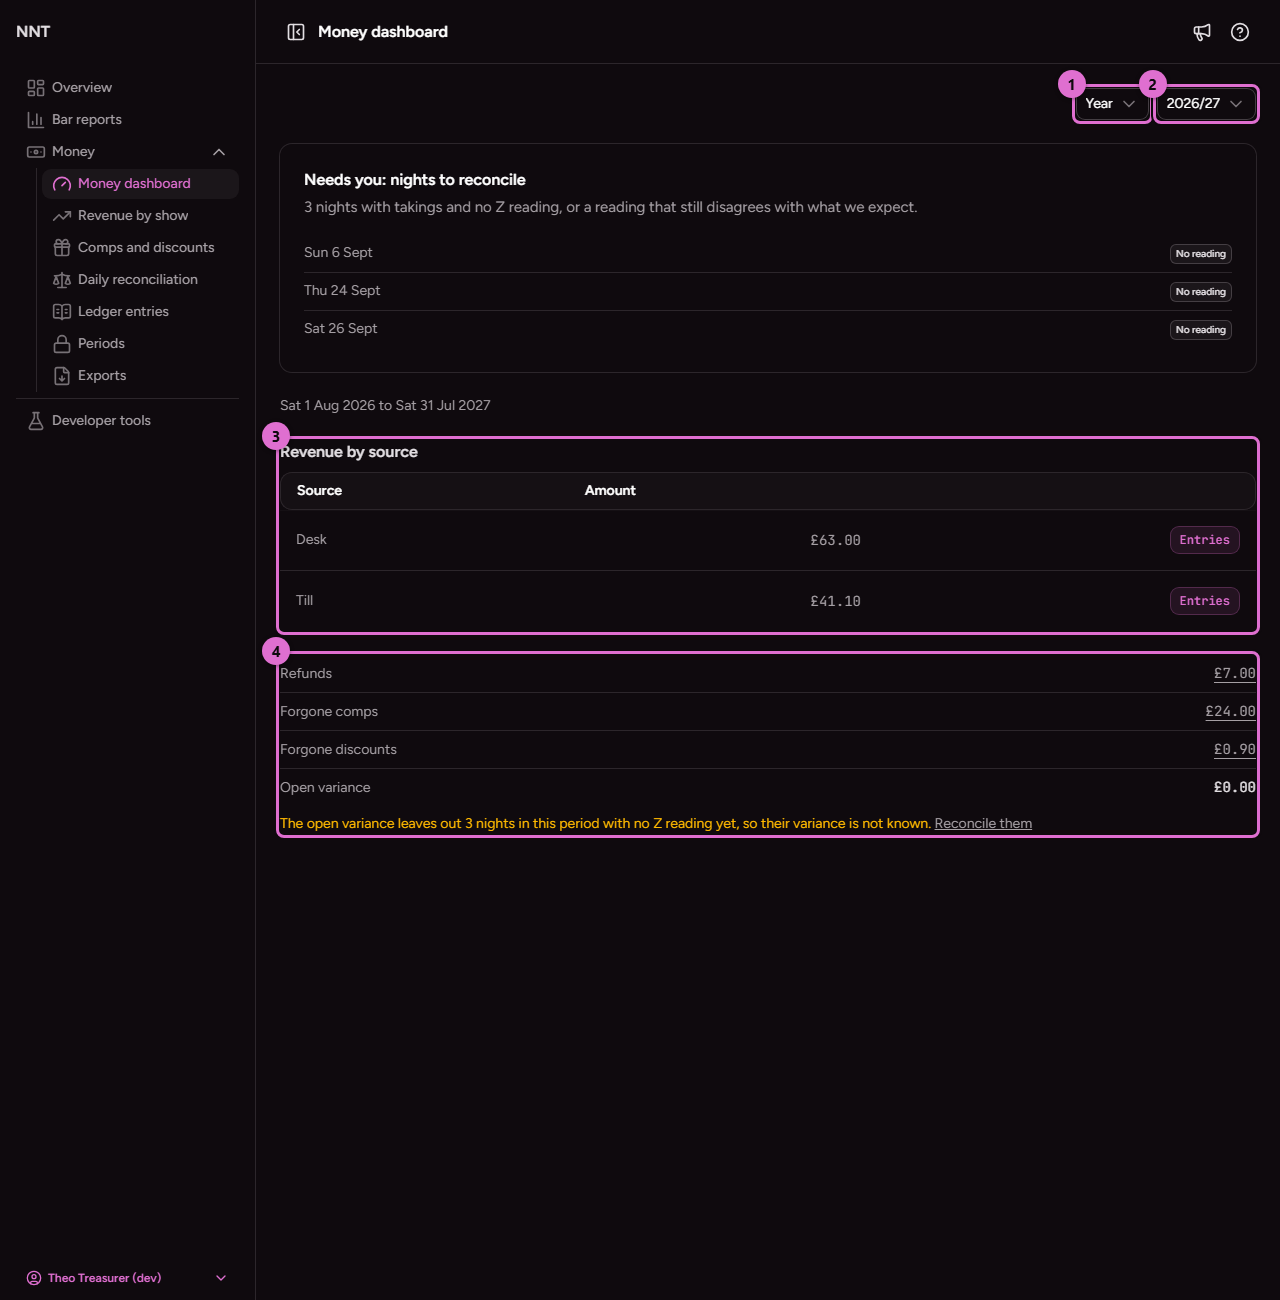
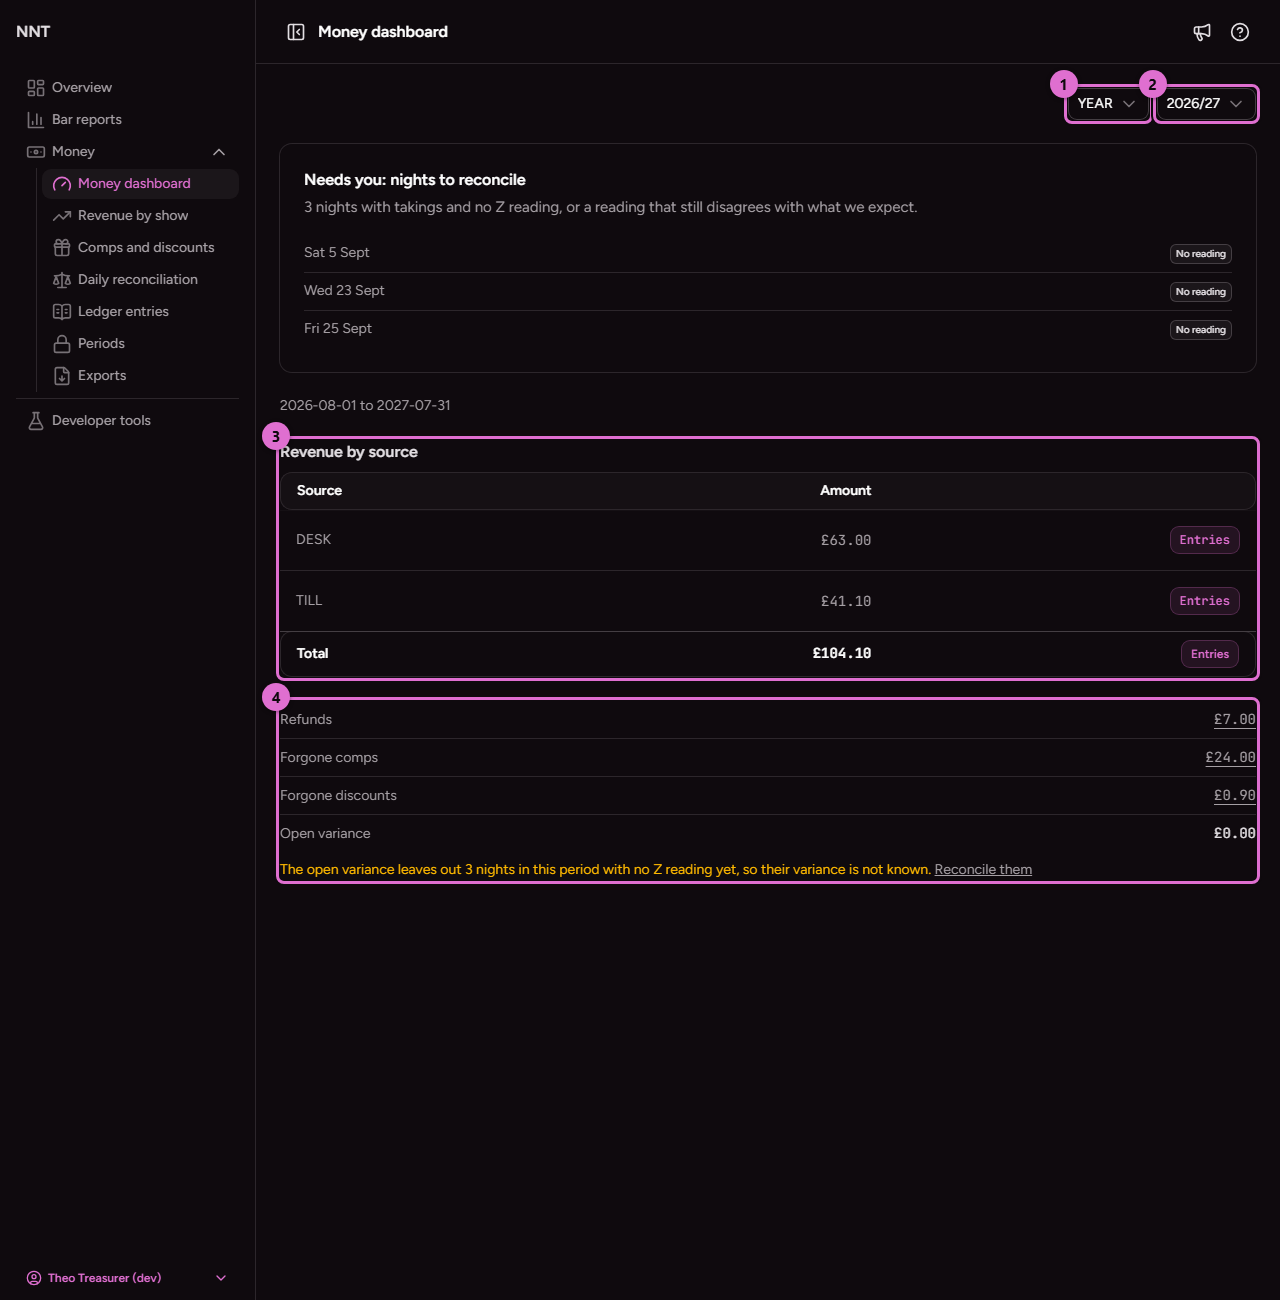
End revenue by source in a total row, the ledger's own sum over the same card lines

diff --git a/server/utils/season-dashboard.ts b/server/utils/season-dashboard.ts
@@ -100,6 +100,16 @@ export function revenueBySourceQuery(fromAt: number, toAt: number): SQL {
   `
 }
 
+// The same lines as the rows above, unsplit: the table's total is the ledger's sum, never the page
+// adding up what it was sent (0004).
+export function revenueTotalQuery(fromAt: number, toAt: number): SQL {
+  return sql`
+    SELECT coalesce(sum(ll.amount_pence), 0) AS totalPence
+    FROM ledger_lines ll JOIN ledger_entries le ON le.id = ll.entry_id
+    WHERE le.tender = 'CARD' AND le.happened_at >= ${fromAt} AND le.happened_at < ${toAt}
+  `
+}
+
 // Keyed off the line's own kind, matching revenue-by-show.ts and night-reconciliation.ts: a
 // live refund never sets `reverses_entry_id` (I-102), only the one-time historical import does.
 export function seasonRefundsQuery(fromAt: number, toAt: number): SQL {
@@ -125,8 +135,9 @@ export function openVarianceQuery(fromDay: string, toDay: string): SQL {
 
 export async function seasonSummary(period: PeriodInput): Promise<SeasonSummary> {
   const bounds = await resolvePeriodBounds(period)
-  const [bySource, [refunds], [openVariance], theForegone, missing] = await Promise.all([
+  const [bySource, [revenueTotal], [refunds], [openVariance], theForegone, missing] = await Promise.all([
     db.all<RevenueBySource>(revenueBySourceQuery(bounds.fromAt, bounds.toAt)),
+    db.all<{ totalPence: number }>(revenueTotalQuery(bounds.fromAt, bounds.toAt)),
     db.all<{ refundsPence: number }>(seasonRefundsQuery(bounds.fromAt, bounds.toAt)),
     db.all<{ openVariancePence: number }>(openVarianceQuery(bounds.fromDay, bounds.toDay)),
     foregone({ scope: 'PERIOD', from: bounds.fromDay, to: bounds.toDay }),
@@ -136,6 +147,7 @@ export async function seasonSummary(period: PeriodInput): Promise<SeasonSummary>
     fromDay: bounds.fromDay,
     toDay: bounds.toDay,
     revenueBySource: bySource,
+    revenueTotalPence: revenueTotal?.totalPence ?? 0,
     refundsPence: refunds?.refundsPence ?? 0,
     compsPence: theForegone.compsPence,
     discountsPence: theForegone.discountsPence,

diff --git a/app/pages/money/index.vue b/app/pages/money/index.vue
@@ -34,14 +34,26 @@ function entriesUrl(filters: EntriesFilters = {}): string {
 
 const UButton = resolveComponent('UButton')
 
+// The total row is the summary's own figure, the ledger's sum over the same lines (0004). A footer
+// cell takes the header's class, so the figures' columns right-align both.
+const RIGHT_FOOTED = { class: { th: 'text-right', td: RIGHT_ALIGNED.class.td } }
+
 const revenueColumns = computed<TableColumn<RevenueBySource>[]>(() => [
-  { id: 'source', header: 'Source', cell: ({ row }) => saysEntrySource(row.original.source) },
-  { id: 'amount', header: 'Amount', meta: RIGHT_ALIGNED, cell: ({ row }) => saysMoney(row.original.totalPence) },
+  { id: 'source', header: 'Source', footer: 'Total', cell: ({ row }) => saysEntrySource(row.original.source) },
+  {
+    id: 'amount',
+    header: 'Amount',
+    meta: RIGHT_FOOTED,
+    footer: () => h('span', { 'class': 'font-mono', 'data-test': 'revenue-total' }, saysMoney(data.value?.revenueTotalPence ?? 0)),
+    cell: ({ row }) => saysMoney(row.original.totalPence),
+  },
   ...(mayDrillDown.value
     ? [{
         id: 'act',
         header: ACTIONS_HEADER,
-        meta: RIGHT_ALIGNED,
+        // The footer's button sits in a th, so it takes the cells' face and alignment too.
+        meta: { class: { th: RIGHT_ALIGNED.class.td, td: RIGHT_ALIGNED.class.td } },
+        footer: () => h(UButton, { size: 'sm', variant: 'subtle', to: entriesUrl({ tender: 'CARD' }) }, () => 'Entries'),
         cell: ({ row }: { row: { original: RevenueBySource } }) => h(UButton, {
           size: 'sm',
           variant: 'subtle',

diff --git a/shared/utils/season-dashboard.ts b/shared/utils/season-dashboard.ts
@@ -69,6 +69,7 @@ export interface SeasonSummary {
   fromDay: string
   toDay: string
   revenueBySource: RevenueBySource[]
+  revenueTotalPence: number
   refundsPence: number
   compsPence: number
   discountsPence: number

diff --git a/content/docs/10.money/index.md b/content/docs/10.money/index.md
@@ -60,10 +60,11 @@ Box Office Manager gave it on the [seasons](/docs/box-office/seasons) screen.
    and Season appears only once at least one season exists.
    Changing any of these reads the ledger again at once; there is nothing else to press. Every
    figure is a query, so a sale made a moment ago is already in the next read.
-3. **Revenue by source**: what each surface took on a card, Desk, Till and so on. With
-   the Treasurer, each row has an **Entries** button that opens the
+3. **Revenue by source**: what each surface took on a card, Desk, Till and so on, ending in a
+   **Total** row: every card line in the range, summed by the ledger itself, so it always equals
+   the rows above it. With the Treasurer, each row has an **Entries** button that opens the
    [ledger entries](/docs/money/ledger-entries) list filtered to that source's card takings and
-   the dashboard's range.
+   the dashboard's range; the total's opens every card entry in the range.
 4. **Refunds**, **Forgone comps**, **Forgone discounts** and **Open variance**: the money
    handed back, the value given away rather than taken, and the sum of every night's reader
    reading that still disagrees with the ledger and has not been written off. With the
